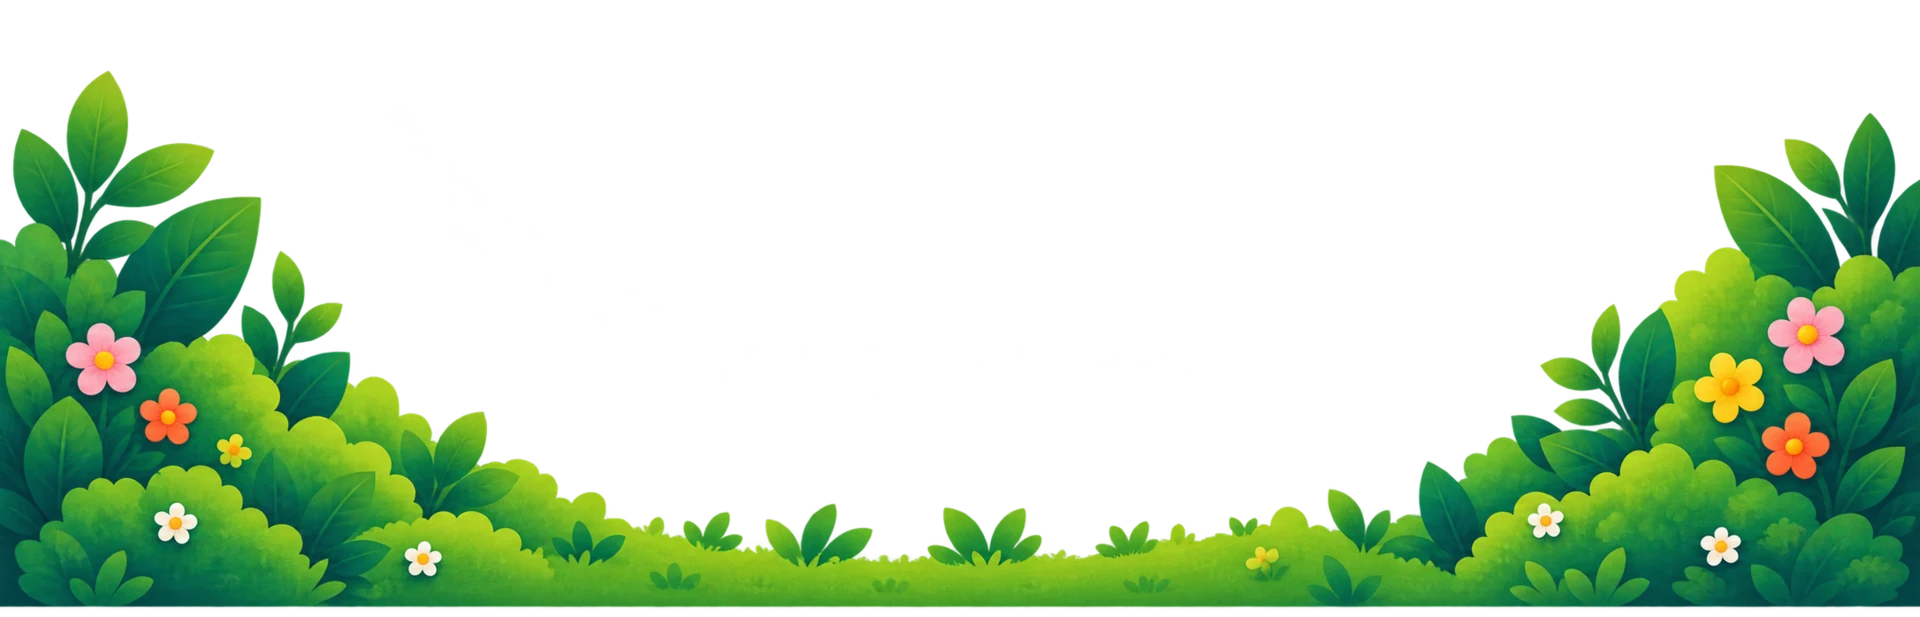
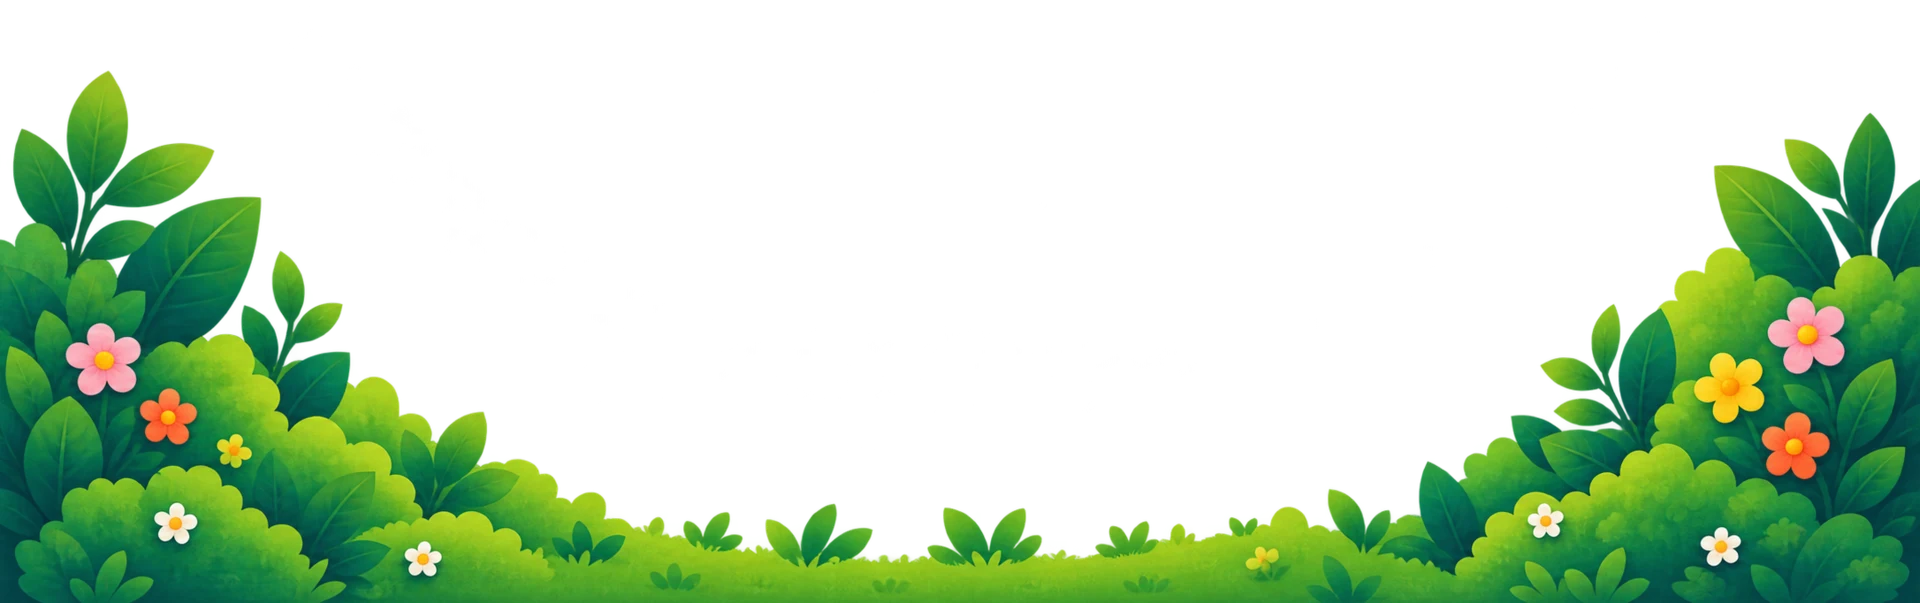
fix: faixa do trailer com chao continuo e tablet pousado na grama (#1)

diff --git a/css/style.css b/css/style.css
@@ -196,7 +196,18 @@ ul, ol { margin: 0; padding: 0; list-style: none; }
   position: absolute; left: 0; bottom: 0; width: 100%; height: auto;
   pointer-events: none;
 }
-.band--leaf .band__inner { padding-bottom: clamp(56px, 7vw, 96px); }
+.band--leaf .band__inner { padding-bottom: clamp(24px, 3vw, 44px); }
+/* a onda de baixo continua o chão de grama do cenário, com emenda suave */
+.band--leaf .wave--bottom { fill: #3a9627; }
+.band--leaf::after {
+  content: ''; position: absolute; left: 0; right: 0; bottom: 0; height: 56px; pointer-events: none;
+  background: linear-gradient(to bottom, rgba(58, 150, 39, 0), #3a9627);
+}
+/* sombra de contato: o tablet pousa na grama */
+.tablet--video::after {
+  content: ''; position: absolute; z-index: -1; left: 8%; right: 8%; bottom: -18px; height: 36px;
+  background: radial-gradient(closest-side, rgba(20, 50, 10, .45), transparent);
+}
 
 .band--sun { --band: var(--sun); overflow-x: clip; }
 .band__inner--split { display: grid; grid-template-columns: 180px 1fr 180px; align-items: center; gap: 24px; }
